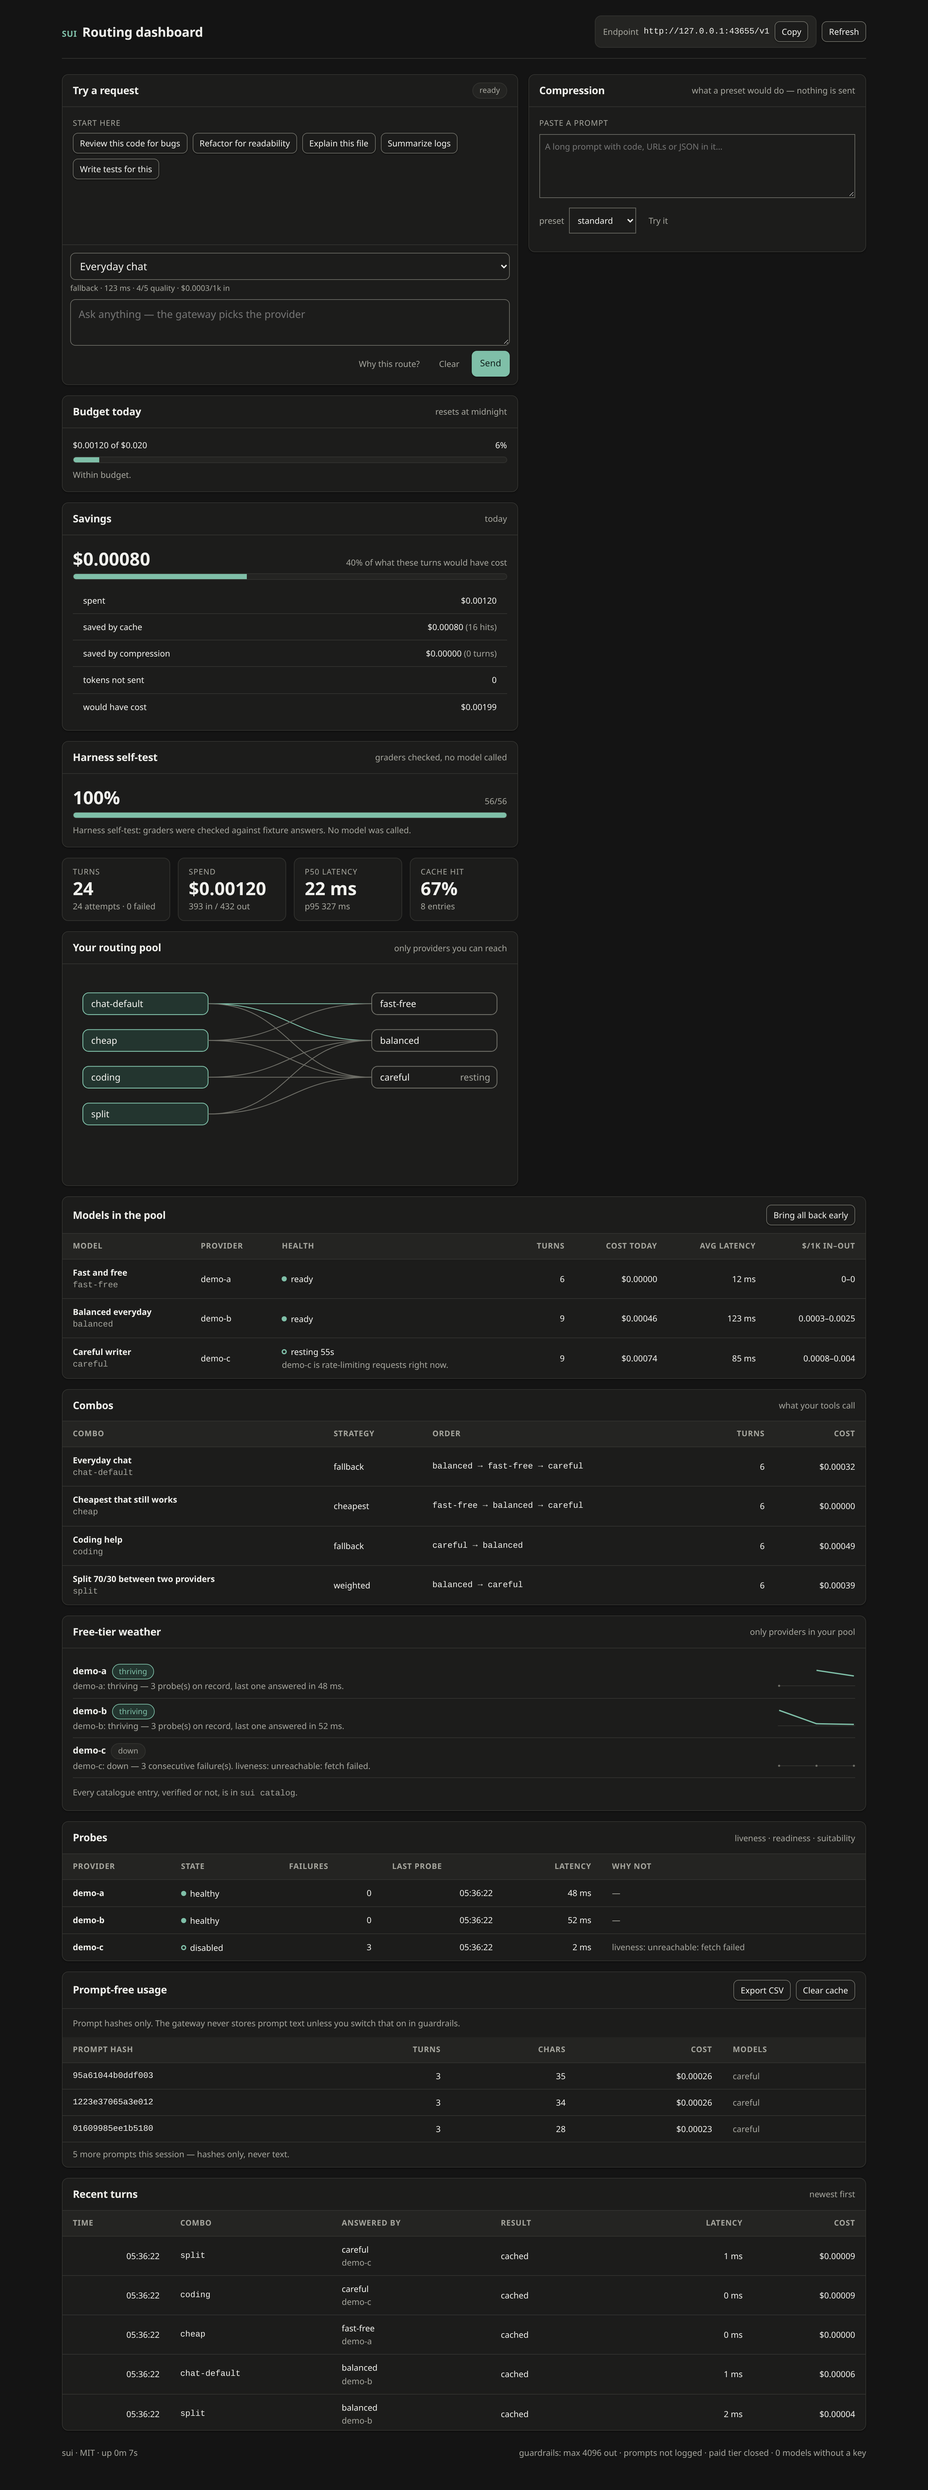
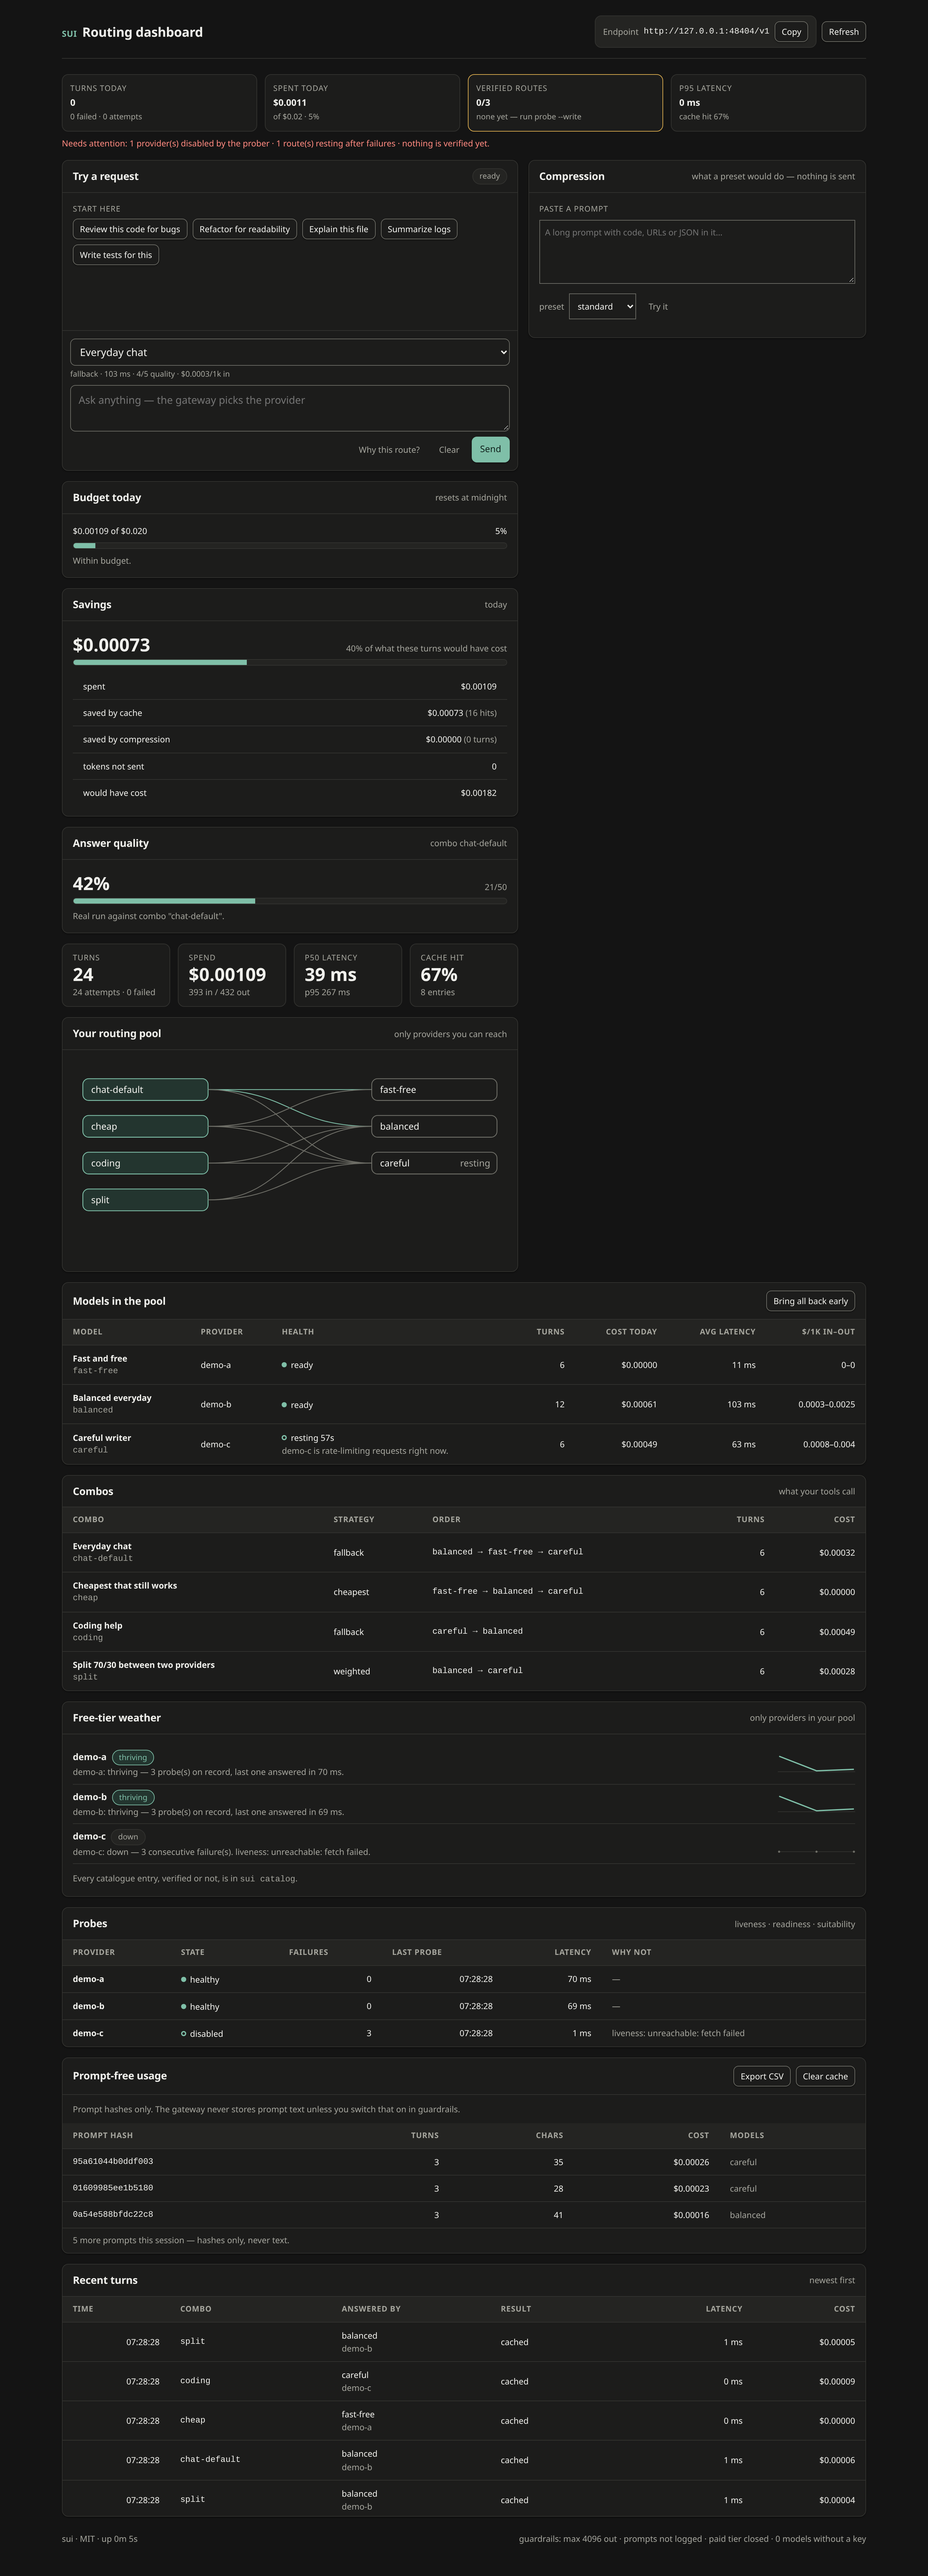
feat: the dashboard leads with what needs attention
Four numbers above every detail card — turns today, spent today, verified routes,
p95 — and one sentence that names the worst thing first: disabled providers,
resting routes, budget over 80%, nothing verified yet. A dashboard that makes you
scroll to discover a breaker is open is a report, not a dashboard.

Building it found a regression the audit had introduced: the SSRF guard disabled
every local model server, because ollama and LM Studio live on 127.0.0.1 and the
guard refused loopback for all entries. A catalogue entry marked local: true may
now be probed on loopback; a remote entry claiming 127.0.0.1 is still refused.

The new state colours are tokens, measured rather than asserted: 5.9:1 and 7.4:1
on the surface, 8.7:1 and 7.6:1 in dark. I9 caught the raw hex I wrote first.

561 tests, audit 8/8, ADR 10/10.

diff --git a/apps/dashboard/web/dashboard.html b/apps/dashboard/web/dashboard.html
@@ -24,6 +24,8 @@
 
     --accent:      #2f5d50;   /* single signal colour */
     --accent-weak: #e4eeea;
+    --warn:        #8a5a00;   /* 5.9:1 on --surface, measured */
+    --bad:         #a3241c;   /* 7.4:1 on --surface, measured */
     --on-accent:   #ffffff;
 
     --radius: 10px;
@@ -51,6 +53,8 @@
       --text-dim:  #a5a59d;
       --accent:      #7fbfa8;
       --accent-weak: #23352f;
+      --warn:        #e0b050;
+      --bad:         #ff8a80;
       --on-accent:   #10201b;
       --shadow-rest: 0 1px 2px rgb(0 0 0 / 0.5);
       --shadow-lift: 0 6px 20px rgb(0 0 0 / 0.55);
@@ -134,6 +138,23 @@
   .hint { color: var(--text-dim); font-size: var(--fs-13); }
 
   /* ---- KPI strip ---- */
+
+  /* At a glance: the four numbers that answer "is anything wrong", above every
+     detail, because a dashboard that makes you scroll to find out is a report. */
+  .glance { margin-bottom: var(--space-4); }
+  .glance-row { display: grid; grid-template-columns: repeat(auto-fit, minmax(150px, 1fr)); gap: var(--space-3); }
+  .glance-cell {
+    background: var(--surface); border: 1px solid var(--line); border-radius: var(--radius);
+    padding: var(--space-3); display: grid; gap: 2px;
+  }
+  .glance-cell .k { font-size: var(--fs-12); text-transform: uppercase; letter-spacing: .06em; color: var(--text-dim); }
+  .glance-cell .v { font-size: var(--fs-24); font-weight: 600; font-variant-numeric: tabular-nums; }
+  .glance-cell .f { font-size: var(--fs-12); color: var(--text-dim); }
+  .glance-cell[data-state="warn"] { border-color: var(--warn); }
+  .glance-cell[data-state="bad"] { border-color: var(--bad); }
+  .glance-state { margin: var(--space-2) 0 0; font-size: var(--fs-13); color: var(--text-dim); }
+  .glance-state[data-state="bad"] { color: var(--bad); }
+  .glance-state[data-state="warn"] { color: var(--warn); }
   .kpis { display: grid; grid-template-columns: repeat(auto-fit, minmax(118px, 1fr)); gap: var(--space-3); }
   .kpi { background: var(--surface); border: 1px solid var(--line); border-radius: var(--radius); padding: var(--space-3) var(--space-4); }
   .kpi .label { font-size: var(--fs-12); text-transform: uppercase; letter-spacing: 0.06em; color: var(--text-dim); }
@@ -266,6 +287,15 @@
       <button class="small" id="refresh" type="button">Refresh</button>
     </div>
   </div>
+
+  <!-- ------------------------------------------------ at a glance -->
+  <section class="glance" id="glance" aria-labelledby="glance-h">
+    <h2 class="sr-only" id="glance-h">At a glance</h2>
+    <div class="glance-row" id="glance-row">
+      <div class="skeleton block" style="height: 54px"></div>
+    </div>
+    <p class="glance-state" id="glance-state" role="status">Checking the gateway…</p>
+  </section>
 
   <div class="grid-main">
 
@@ -495,6 +525,15 @@ function toast(message) {
 }
 
 const money = (n) => (n == null ? '—' : `$${Number(n).toFixed(n < 0.01 ? 5 : 3)}`);
+// A headline is read, not audited: $0.00000 is precision nobody asked for at the
+// top of the page. The detail rows keep the full form.
+const moneyShort = (n) => {
+  if (n == null) return '—';
+  const v = Number(n);
+  if (v === 0) return '$0';
+  if (v < 0.01) return `$${v.toFixed(4).replace(/0+$/, '').replace(/\.$/, '')}`;
+  return `$${v.toFixed(2)}`;
+};
 const ms = (n) => (n == null ? '—' : `${Math.round(n)} ms`);
 const num = (n) => (n == null ? '—' : Number(n).toLocaleString('en-IN'));
 
@@ -524,6 +563,7 @@ function render() {
     `${unconfigured.length} model${unconfigured.length === 1 ? '' : 's'} without a key` +
     (warnings.length ? ` · ${warnings.length} invariant warning${warnings.length === 1 ? '' : 's'} (${warnings.map((w) => w.id).join(', ')})` : '');
 
+  renderGlance(state);
   renderBudget(budget);
   renderKpis(metrics.totals, cache);
   renderPool(pool);
@@ -555,6 +595,86 @@ function renderBudget(budget) {
     </div>
     <div class="hint">${over === 'over' ? 'Cap reached — every target is skipped until tomorrow, or raise budgets.dailyUsd.' : over === 'warn' ? `Past the ${budget.warnAtPct}% warning line.` : 'Within budget.'}</div>`;
   $('#budget-note').textContent = `resets at midnight`;
+}
+
+
+/**
+ * At a glance — the four numbers that answer "is anything wrong", and one
+ * sentence that says what needs attention.
+ *
+ * A dashboard that makes you scroll to discover a breaker is open is a report,
+ * not a dashboard. The detail below is unchanged; this is the top of the story.
+ */
+function renderGlance(payload) {
+  const row = document.querySelector('#glance-row');
+  const state = document.querySelector('#glance-state');
+  if (!row || !state) return;
+
+  const totals = payload.totals ?? {};
+  const cache = payload.cache ?? { hitRate: 0, entries: 0 };
+  const budget = payload.budget ?? {};
+  const pool = payload.pool ?? [];
+  const probes = payload.probes ?? [];
+
+  const openBreakers = pool.filter((m) => String(m.health ?? '').replace(/_/g, '-') === 'open');
+  const halfOpen = pool.filter((m) => String(m.health ?? '').replace(/_/g, '-') === 'half-open');
+  const disabled = probes.filter((p) => p.status === 'disabled');
+  const verified = pool.filter((m) => m.verified === true).length;
+  const spentPct = budget.dailyUsd ? Math.min(100, Math.round((Number(budget.spentUsd ?? 0) / Number(budget.dailyUsd)) * 100)) : null;
+
+  const cells = [
+    {
+      k: 'turns today',
+      v: num(totals.turns ?? 0),
+      f: `${totals.failed ?? 0} failed · ${totals.attempts ?? 0} attempts`,
+      state: (totals.failed ?? 0) > 0 ? 'warn' : 'ok',
+    },
+    {
+      k: 'spent today',
+      v: moneyShort(budget.spentUsd ?? totals.costUsd ?? 0),
+      f: budget.dailyUsd ? `of ${moneyShort(budget.dailyUsd)} · ${spentPct}%` : 'no daily cap',
+      state: spentPct == null ? 'ok' : spentPct >= 100 ? 'bad' : spentPct >= 80 ? 'warn' : 'ok',
+    },
+    {
+      k: 'verified routes',
+      v: `${verified}/${pool.length}`,
+      f: verified ? 'answered a probe' : 'none yet — run probe --write',
+      state: verified ? 'ok' : 'warn',
+    },
+    {
+      k: 'p95 latency',
+      v: ms(totals.p95LatencyMs ?? 0),
+      f: `cache hit ${Math.round((cache.hitRate ?? 0) * 100)}%`,
+      state: 'ok',
+    },
+  ];
+
+  row.innerHTML = cells
+    .map(
+      (c) => `
+      <div class="glance-cell" data-state="${c.state}">
+        <div class="k">${c.k}</div>
+        <div class="v">${c.v}</div>
+        <div class="f">${c.f}</div>
+      </div>`,
+    )
+    .join('');
+
+  // One sentence, and it leads with the worst thing rather than the total.
+  const problems = [];
+  if (disabled.length) problems.push(`${disabled.length} provider(s) disabled by the prober`);
+  if (openBreakers.length) problems.push(`${openBreakers.length} route(s) resting after failures`);
+  if (halfOpen.length) problems.push(`${halfOpen.length} route(s) being retried`);
+  if (spentPct != null && spentPct >= 80) problems.push(`${spentPct}% of today's budget used`);
+  if (!verified) problems.push('nothing is verified yet');
+
+  if (problems.length) {
+    state.dataset.state = openBreakers.length || disabled.length ? 'bad' : 'warn';
+    state.textContent = `Needs attention: ${problems.join(' · ')}.`;
+  } else {
+    state.dataset.state = 'ok';
+    state.textContent = `Everything is answering. ${pool.length} route(s) in the pool, ${num(totals.turns ?? 0)} turn(s) today.`;
+  }
 }
 
 function renderKpis(totals, cache) {

diff --git a/test/dashboard.test.js b/test/dashboard.test.js
@@ -243,3 +243,38 @@ test('headless serves the API and refuses the dashboard', async () => {
 
   await gw.close();
 });
+
+/* ------------------------------------ KPI hierarchy (0.12.13) */
+
+test('the four headline numbers are above every detail card', () => {
+  // A dashboard that makes you scroll to discover a breaker is open is a report.
+  const glanceAt = html.indexOf('id="glance-row"');
+  const firstCardAt = html.indexOf('<section class="card"');
+  assert.ok(glanceAt > 0, 'there is an at-a-glance strip');
+  assert.ok(firstCardAt > glanceAt, 'it comes before the first detail card');
+
+  for (const label of ['turns today', 'spent today', 'verified routes', 'p95 latency']) {
+    assert.ok(html.includes(label), `the strip must answer "${label}"`);
+  }
+});
+
+test('the glance strip leads with the worst thing, not the total', () => {
+  assert.match(html, /Needs attention: \$\{problems\.join/);
+  // the order of the checks is the order of severity
+  const body = html.slice(html.indexOf('const problems = []'));
+  const order = ['provider(s) disabled', 'route(s) resting', 'route(s) being retried', "today's budget used", 'nothing is verified yet'];
+  let last = -1;
+  for (const phrase of order) {
+    const at = body.indexOf(phrase);
+    assert.ok(at > last, `"${phrase}" is out of severity order`);
+    last = at;
+  }
+});
+
+test('a headline is read, not audited: no five-decimal money at the top', () => {
+  assert.match(html, /const moneyShort = /);
+  // the detail rows keep the full precision
+  assert.match(html, /const money = \(n\) =>/);
+  const glance = html.slice(html.indexOf('function renderGlance'), html.indexOf('function renderKpis'));
+  assert.equal(/\$\{money\(/.test(glance), false, 'the strip must use the short form');
+});

diff --git a/test/prober.test.js b/test/prober.test.js
@@ -380,3 +380,27 @@ test('a probe never touches the user\'s own machine or cloud account', async () 
   // and a loopback probe is possible when something asks for it explicitly
   assert.equal(probeAddressAllowed('http://127.0.0.1:11434/v1', { allowLocal: true }).ok, true);
 });
+
+test('a catalogue entry marked local may be probed on loopback; a remote one may not', async () => {
+  const { probeTarget } = await import('../packages/prober/src/index.js');
+
+  // ollama and LM Studio live on 127.0.0.1 and are marked local: true. Without
+  // this, the SSRF guard disabled every local model server the moment it landed.
+  const local = await probeTarget(
+    { provider: 'ollama', base_url: 'http://127.0.0.1:1/v1', model_family: 'openai-compatible', capabilities: ['chat'], local: true },
+    { timeoutMs: 300 },
+  );
+  assert.equal(
+    local.reasons.some((r) => r.includes('refusing to probe')),
+    false,
+    'a local entry is allowed to reach loopback',
+  );
+  assert.match(local.reasons.join(' '), /unreachable|timed out/);
+
+  // a remote entry that names loopback is not local, and is still refused
+  const remote = await probeTarget(
+    { provider: 'sketchy', base_url: 'http://127.0.0.1:6379/v1', model_family: 'openai-compatible', capabilities: ['chat'] },
+    { timeoutMs: 300 },
+  );
+  assert.match(remote.reasons.join(' '), /refusing to probe/);
+});

diff --git a/packages/prober/src/index.js b/packages/prober/src/index.js
@@ -112,9 +112,12 @@ export async function probeTarget(entry, opts = {}) {
   // what it is told, so without this guard a seeded or imported base_url of
   // http://169.254.169.254/ (cloud metadata) or http://127.0.0.1:6379 would be
   // fetched on the user's machine and the result reported as a provider's health.
-  // `allowLocal` is for a loopback probe that something asked for explicitly —
-  // the test fixtures and `sui local`. Production code never sets it.
-  const reachable = base ? probeAddressAllowed(base, { allowLocal: opts.allowLocal === true }) : null;
+  // A loopback probe is allowed when something asked for it explicitly, or when
+  // the catalogue itself says this entry is a model server on this machine
+  // (`local: true` — ollama, LM Studio). A remote provider claiming 127.0.0.1 is
+  // not local, and is still refused.
+  const allowLocal = opts.allowLocal === true || entry.local === true;
+  const reachable = base ? probeAddressAllowed(base, { allowLocal }) : null;
   if (base && !reachable.ok) {
     return {
       pool_key: key,

diff --git a/docs/index.html b/docs/index.html
@@ -111,7 +111,7 @@
   </div>
 
   <div class="strip">
-    <div class="stat"><div class="k">tests</div><div class="v num">557</div><div class="f">no network, no keys</div></div>
+    <div class="stat"><div class="k">tests</div><div class="v num">561</div><div class="f">no network, no keys</div></div>
     <div class="stat"><div class="k">p95 overhead</div><div class="v num">1.13<span style="font-size:var(--fs-16)"> ms</span></div><div class="f">budget 15 ms</div></div>
     <div class="stat"><div class="k">invariants</div><div class="v num">19</div><div class="f">each with a test</div></div>
     <div class="stat"><div class="k">catalogue</div><div class="v num">29</div><div class="f">endpoints, all awaiting a probe</div></div>

diff --git a/README.md b/README.md
@@ -73,7 +73,7 @@ Nineteen invariants live as data in [`packages/core/src/invariants.js`](packages
 | **I13** | The breaker trips on 5xx and transport only — never on 401, 404 or 429. |
 | **I19** | The health history holds no prompt content, and drops any row that carries it. |
 
-Run `npm test`, `npm run audit` (8 static checks plus 10 ADR compliance checks), `npm run eval:self`, `npm run soak`, `npm run smoke:dashboard`. The numbers, as of this commit: **557 tests, audit 8/8, ADR 10/10, p95 overhead 2.19 ms against a 15 ms budget from 1,200 samples.**
+Run `npm test`, `npm run audit` (8 static checks plus 10 ADR compliance checks), `npm run eval:self`, `npm run soak`, `npm run smoke:dashboard`. The numbers, as of this commit: **561 tests, audit 8/8, ADR 10/10, p95 overhead 2.19 ms against a 15 ms budget from 1,200 samples.**
 
 What each number rests on — sample sizes, confidence intervals, and where a figure stops being useful — is in [`docs/MEASUREMENT.md`](docs/MEASUREMENT.md). How it compares with [OmniRoute](https://github.com/cheaper-inference/OmniRoute), including where that project is further ahead, is in [`docs/COMPARISON.md`](docs/COMPARISON.md).
 

diff --git a/CHANGELOG.md b/CHANGELOG.md
@@ -2,6 +2,17 @@
 
 Every entry names what shipped and what it costs you to adopt. Nothing is listed here that a command does not prove.
 
+## 0.12.13 — 2026-11-19
+
+### Added
+
+- **The dashboard leads with what needs attention.** Four numbers above every detail card — turns today, spent today, verified routes, p95 — and one sentence that names the worst thing first: disabled providers, resting routes, budget over 80%, or nothing verified yet. The detail below is unchanged; it is now the second thing you read, not the first.
+
+### Fixed
+
+- **The SSRF guard disabled every local model server.** Ollama and LM Studio live on `127.0.0.1`; the guard refused loopback for all entries, so a probe sweep marked them down. A catalogue entry marked `local: true` may now be probed on loopback — a remote entry claiming `127.0.0.1` is still refused.
+- `--warn` and `--bad` are tokens now, measured rather than asserted: 5.9:1 and 7.4:1 on the surface, 8.7:1 and 7.6:1 in dark.
+
 ## 0.12.12 — 2026-11-19
 
 ### Added
